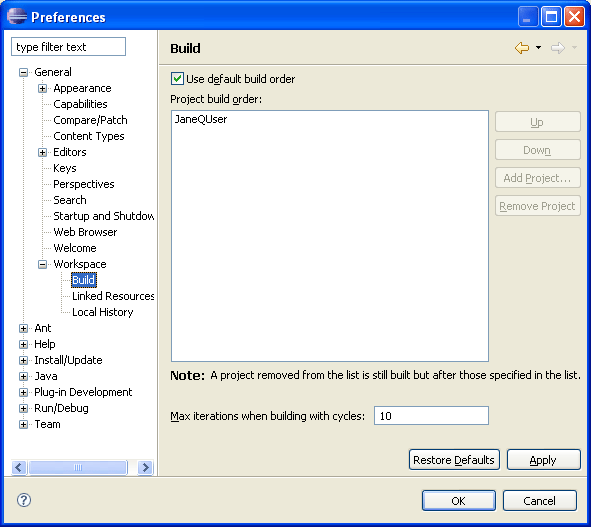
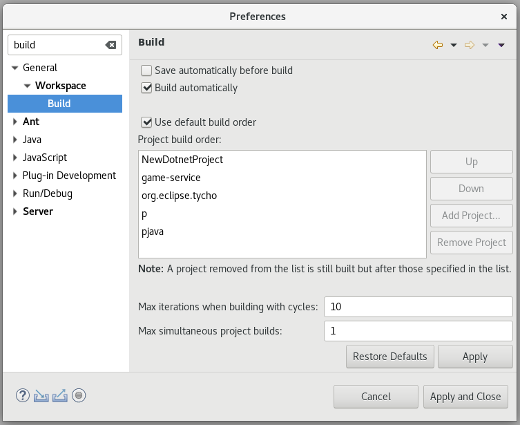
Bugs 489540, 531580, 531747 - Update workspace and build pref page doc

Changed region(s): [[0.0, 0.0, 1.0, 1.0]]

diff --git a/bundles/org.eclipse.platform.doc.user/reference/ref-17.htm b/bundles/org.eclipse.platform.doc.user/reference/ref-17.htm
@@ -8,28 +8,18 @@
 
 <LINK REL="STYLESHEET" HREF="../book.css" CHARSET="ISO-8859-1" TYPE="text/css">
 <script language="JavaScript" src="PLUGINS_ROOT/org.eclipse.help/livehelp.js" type="text/javascript"></script>
-<title>Build Order</title>
+<title>Build</title>
 
 </HEAD>
 <BODY BGCOLOR="#ffffff">
 <H1 CLASS="Head">
-Build Order</H1>
-<P CLASS="Para">
-Often the order in which projects are built is important.&nbsp; For
-example, if one project requires the Java classes which were defined in another
-project, the first project must be built after its prerequisite classes have
-been built.&nbsp; The Workbench allows users to explicitly define the order in
-which projects are built. Alternatively, users can let the platform compute the
-build order by interpreting project references as prerequisite relationships.
-The build order is applied for both building the entire workspace or for a group
-of projects.&nbsp;</P>
-<P CLASS="Para">You can change this order on the
+Build</H1>
 
+<P CLASS="Para">On the
 <a class="command-link" href='javascript:executeCommand("org.eclipse.ui.window.preferences(preferencePageId=org.eclipse.ui.preferencePages.BuildOrder)")'>
 <img src="PLUGINS_ROOT/org.eclipse.help/command_link.png" alt="command link">
-<strong>General &gt; Workspace &gt; Build</strong></a>
+<strong>General &gt; Workspace &gt; Build</strong></a> preferences page, you can configure how the projects inside the workspace will be built.&nbsp;</P>
 
-preferences page.&nbsp;</P>
 <TABLE BORDER="1" cellspacing="0">
   <THEAD>
     <TR> 
@@ -39,13 +29,34 @@ preferences page.&nbsp;</P>
     </TR>
   </THEAD>
   <TBODY>
+    <tr> 
+    <td>Build automatically</td>
+    <td>If this option is turned on, then the Workbench will perform an automatic 
+      build whenever a modified resource is saved.</td>
+    <td>On</td>
+  </tr>
+  <tr> 
+    <td>Save automatically before build</td>
+    <td>If this option is selected, when a manual build is performed the Workbench 
+      will automatically save all resources that have been modified since the 
+      last build was performed.<br></td>
+    <td>Off<br></td>
+  </tr>
     <TR> 
       <TD ROWSPAN="1" COLSPAN="1" valign="top" align="left"> <P CLASS="Para"> 
           Use default builder order</P></TD>
       <TD ROWSPAN="1" COLSPAN="1" valign="top" align="left"> <P CLASS="Para"> 
           This option allows the platform to computes the build ordering. 
           Turning off this option enables access to the projects list, the ordering 
-          of which can be manipulated. </P></TD>
+          of which can be manipulated. </P>
+          <P>Often the order in which projects are built is important.&nbsp; For
+example, if one project requires the Java classes which were defined in another
+project, the first project must be built after its prerequisite classes have
+been built.&nbsp; The Workbench allows users to explicitly define the order in
+which projects are built. Alternatively, users can let the platform compute the
+build order by interpreting project references as prerequisite relationships.
+The build order is applied for both building the entire workspace or for a group
+of projects.&nbsp;<P></TD>
       <TD>On</TD>
     </TR>
     <TR> 
@@ -73,6 +84,15 @@ preferences page.&nbsp;</P>
           the build order before giving up.</P></TD>
       <TD> 10</TD>
     </TR>
+    <TR>
+      <TD>Max simultaneous project builds</TD>
+      <TD>Under some safe circumstances, the workspace can chose to build independent projects in parallel. In such
+      case, this preference controls the maximum amount of jobs/threads that will be running builds in parallel. A value of
+      <code>1</code> indicates that build won't be parallelized and keeps the legacy behavior.</p>
+      <p>The optimal value depends on your machine and workspace projects specificities. We do recommend to try relatively
+      low values (such as <code>4</code>) first which already allow to save time, when projects allow it, while not risking to
+      overload your CPU.</TD>
+      <TD>1</TD>
   </TBODY>
 </TABLE>
 <P CLASS="Para">Here is what the Build preference page looks like:&nbsp; 

diff --git a/bundles/org.eclipse.platform.doc.user/reference/ref-9.htm b/bundles/org.eclipse.platform.doc.user/reference/ref-9.htm
@@ -30,12 +30,6 @@
     <td><strong>Default</strong></td>
   </tr>
   <tr> 
-    <td>Build automatically</td>
-    <td>If this option is turned on, then the Workbench will perform an automatic 
-      build whenever a modified resource is saved.</td>
-    <td>On</td>
-  </tr>
-  <tr> 
     <td>Refresh using native hooks or polling</td>
     <td>If this option is turned on then the workspace resources will be synchronized 
         with their corresponding resources in the file system automatically
@@ -50,13 +44,6 @@
     	for example while accessing the file content by an editor, 
     	will be automatically asynchronously refreshed.</td>
     <td>Off </td>
-  </tr>
-  <tr> 
-    <td>Save automatically before build</td>
-    <td>If this option is selected, when a manual build is performed the Workbench 
-      will automatically save all resources that have been modified since the 
-      last build was performed.<br></td>
-    <td>Off<br></td>
   </tr>
   <tr> 
     <td>Always close unrelated projects without prompt</td>
@@ -103,11 +90,15 @@
     </td>
     <td>Platform default</td>
   </tr>
+  <tr>
+    <td>Report unknow project nature as</td>
+    <td>When a project is configured with a nature which is not defined in the Workbench, a marker can be added on the project resource. This preference allows to configure the severity of such marker.</td>
+    <td>Warning</td>
   <tr> 
     <td>Text file encoding</td>
     <td> Use 
         this option to specify the encoding to use when saving text files in editors.</td>
-    <td>Default (Cp1252)</td>
+    <td>Default</td>
   </tr>
   <tr> 
     <td>New text file line delimiter</td>
